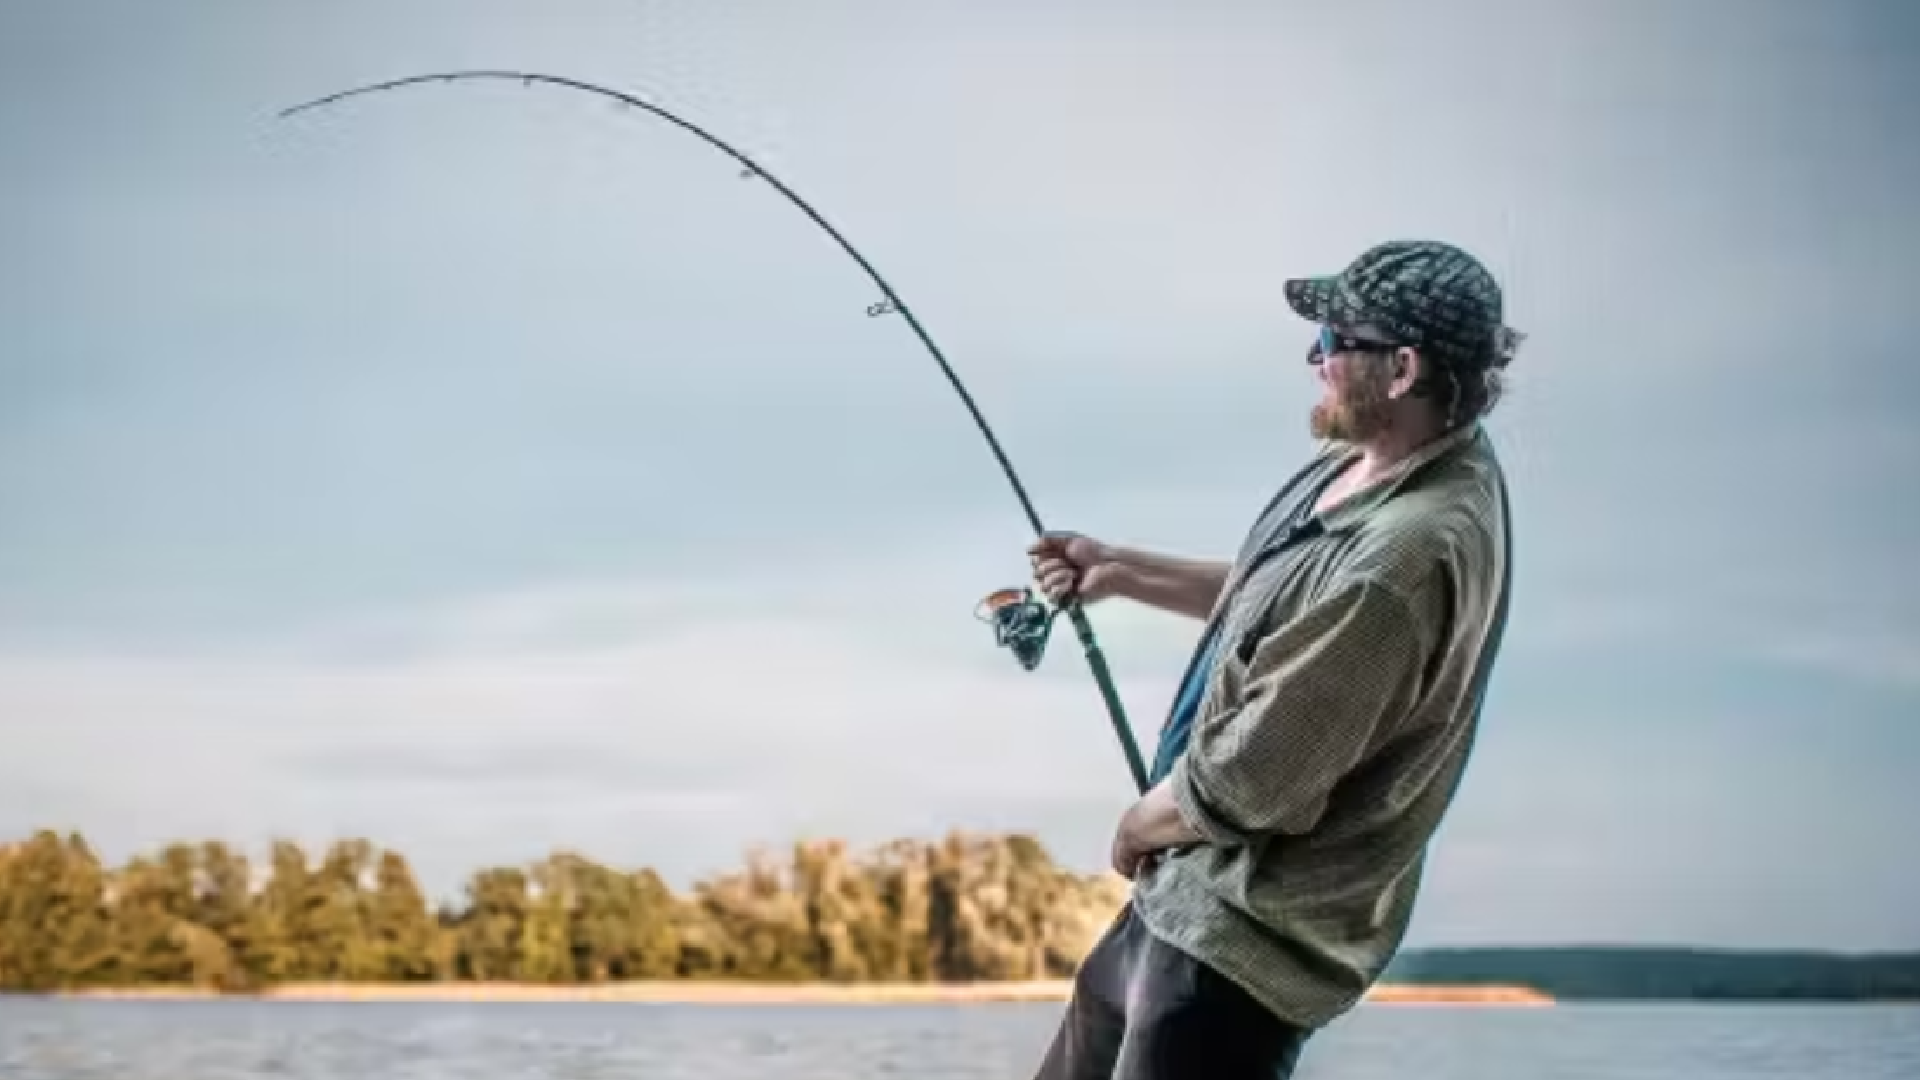
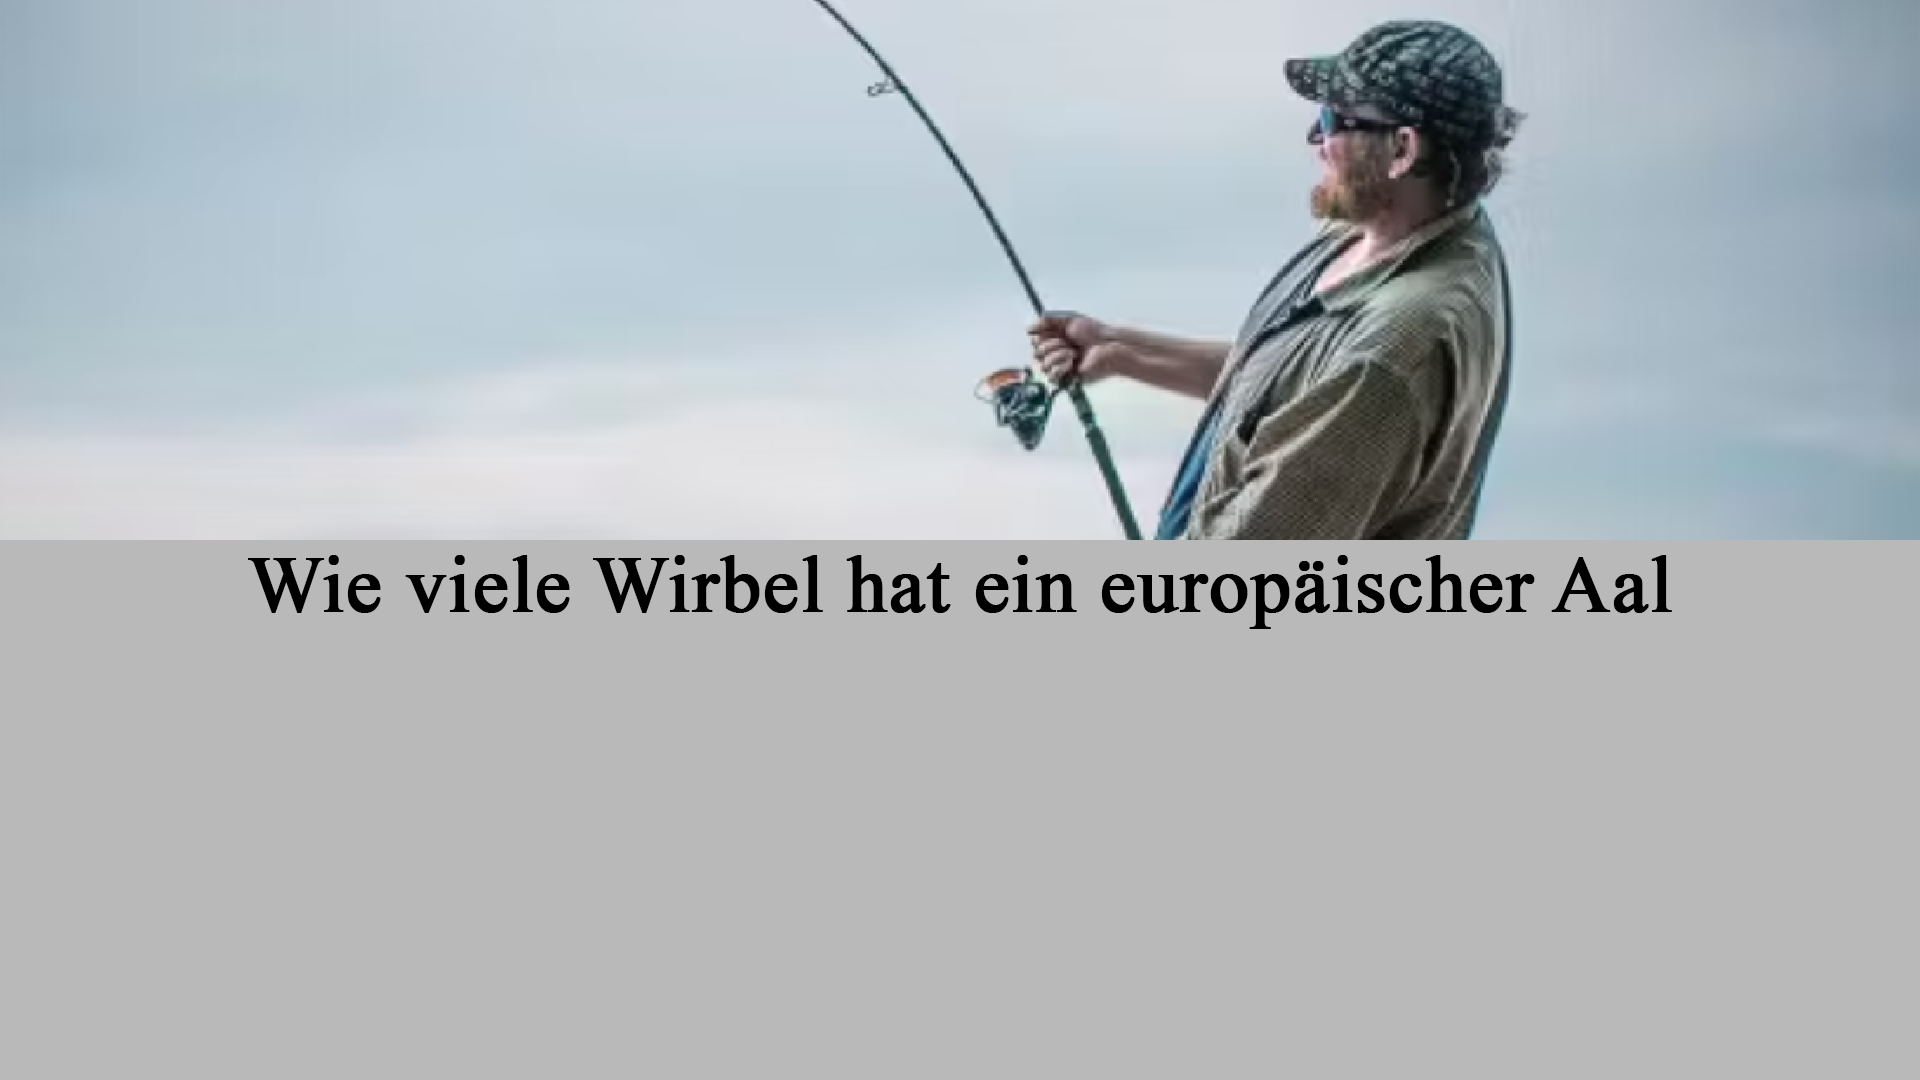
update

diff --git a/wer_weiss_denn_sowas.py b/wer_weiss_denn_sowas.py
@@ -3,16 +3,6 @@ from tkinter import *
 from tkinter import ttk
 from PIL import Image, ImageTk
 
-class Window:
-    def __init__(self, master):
-        self.img = Image.open("mushroom.png")
-        self.img = self.img.resize((320, 300), Image.ANTIALIAS)
- 
-        self.img = ImageTk.PhotoImage(self.img)
- 
-        label = Label(master, image = self.img)
-        label.pack(expand = True, fill = BOTH)
-
 def press_button1():
     #overwrite Button    
     global button_1
@@ -20,37 +10,39 @@ def press_button1():
     #Create new Window for question
     question= Toplevel()
     question.geometry("1920x1080")
-    img = Image.open("mushroom.png")
+    img = Image.open("angeln.png")
     img = ImageTk.PhotoImage(img)
     picture = Label(question, image= img)
     picture.place(relx=0, rely=0)
+    answer_button_a = Button(question, text= "A) Keine", width=40, font=("Arial",20,"bold"),bg="grey", command= {print("Antwort A")})
+    #answer_button_a.place(relx=0.3, rely= 0.65)
+    answer_button_b = Button(question, text= "A) 60 bis 80 ", width=40, font=("Arial",20,"bold"),bg="grey", command= None)
+    answer_button_b.place(relx=0.3, rely= 0.75)
+    answer_button_c = Button(question, text= "A) 100 bis 119", width=40, font=("Arial",20,"bold"),bg="grey", command= None)
+    answer_button_c.place(relx=0.3, rely= 0.85)
     question.mainloop()
 
+if __name__ == '__main__':
+    #Create an instance of Tkinter frame
+    win= Tk()
+    win.title("Wer weiß denn sowas???")
+    #Set the geometry of Tkinter frame
+    win.geometry("1920x1080")
+    win.configure(bg=("dark grey"))
 
 
-
-
-
-#Create an instance of Tkinter frame
-win= Tk()
-win.title("Wer weiß denn sowas???")
-#Set the geometry of Tkinter frame
-win.geometry("1920x1080")
-win.configure(bg=("dark grey"))
-
-
-button_1 = Button(win, text= "Thema 1", height=5, width=20, font=("Arial",20,"bold"),bg="light blue", command= press_button1).grid(column=0, row=0)
-button_2 = Button(win, text= "Thema 2", height=5, width=20, font=("Arial",20,"bold"),bg="light blue", command= None).grid(column=1, row=0)
-button_3 = Button(win, text= "Thema 3", height=5, width=20, font=("Arial",20,"bold"),bg="light blue", command= None).grid(column=2, row=0)
-button_4 = Button(win, text= "Thema 4", height=5, width=20, font=("Arial",20,"bold"),bg="light blue", command= None).grid(column=3, row=0)
-button_5 = Button(win, text= "Thema 5", height=5, width=20, font=("Arial",20,"bold"),bg="light blue", command= None).grid(column=0, row=1)
-button_6 = Button(win, text= "Thema 6", height=5, width=20, font=("Arial",20,"bold"),bg="light blue", command= None).grid(column=1, row=1)
-button_7 = Button(win, text= "Thema 7", height=5, width=20, font=("Arial",20,"bold"),bg="light blue", command= None).grid(column=2, row=1)
-button_8 = Button(win, text= "Thema 8", height=5, width=20, font=("Arial",20,"bold"),bg="light blue", command= None).grid(column=3, row=1)
-button_9 = Button(win, text= "Thema 9", height=5, width=20, font=("Arial",20,"bold"),bg="light blue", command= None).grid(column=0, row=2)
-button_10 = Button(win, text= "Thema 10", height=5, width=20, font=("Arial",20,"bold"),bg="light blue", command= None).grid(column=1, row=2)
-button_11 = Button(win, text= "Thema 11", height=5, width=20, font=("Arial",20,"bold"),bg="light blue", command= None).grid(column=2, row=2)
-button_12 = Button(win, text= "Thema 12", height=5, width=20, font=("Arial",20,"bold"),bg="light blue", command= None).grid(column=3, row=2)
-win.mainloop()
+    button_1 = Button(win, text= "Thema 1", height=5, width=20, font=("Arial",20,"bold"),bg="light blue", command= press_button1).grid(column=0, row=0)
+    button_2 = Button(win, text= "Thema 2", height=5, width=20, font=("Arial",20,"bold"),bg="light blue", command= None).grid(column=1, row=0)
+    button_3 = Button(win, text= "Thema 3", height=5, width=20, font=("Arial",20,"bold"),bg="light blue", command= None).grid(column=2, row=0)
+    button_4 = Button(win, text= "Thema 4", height=5, width=20, font=("Arial",20,"bold"),bg="light blue", command= None).grid(column=3, row=0)
+    button_5 = Button(win, text= "Thema 5", height=5, width=20, font=("Arial",20,"bold"),bg="light blue", command= None).grid(column=0, row=1)
+    button_6 = Button(win, text= "Thema 6", height=5, width=20, font=("Arial",20,"bold"),bg="light blue", command= None).grid(column=1, row=1)
+    button_7 = Button(win, text= "Thema 7", height=5, width=20, font=("Arial",20,"bold"),bg="light blue", command= None).grid(column=2, row=1)
+    button_8 = Button(win, text= "Thema 8", height=5, width=20, font=("Arial",20,"bold"),bg="light blue", command= None).grid(column=3, row=1)
+    button_9 = Button(win, text= "Thema 9", height=5, width=20, font=("Arial",20,"bold"),bg="light blue", command= None).grid(column=0, row=2)
+    button_10 = Button(win, text= "Thema 10", height=5, width=20, font=("Arial",20,"bold"),bg="light blue", command= None).grid(column=1, row=2)
+    button_11 = Button(win, text= "Thema 11", height=5, width=20, font=("Arial",20,"bold"),bg="light blue", command= None).grid(column=2, row=2)
+    button_12 = Button(win, text= "Thema 12", height=5, width=20, font=("Arial",20,"bold"),bg="light blue", command= None).grid(column=3, row=2)
+    win.mainloop()
 
 
